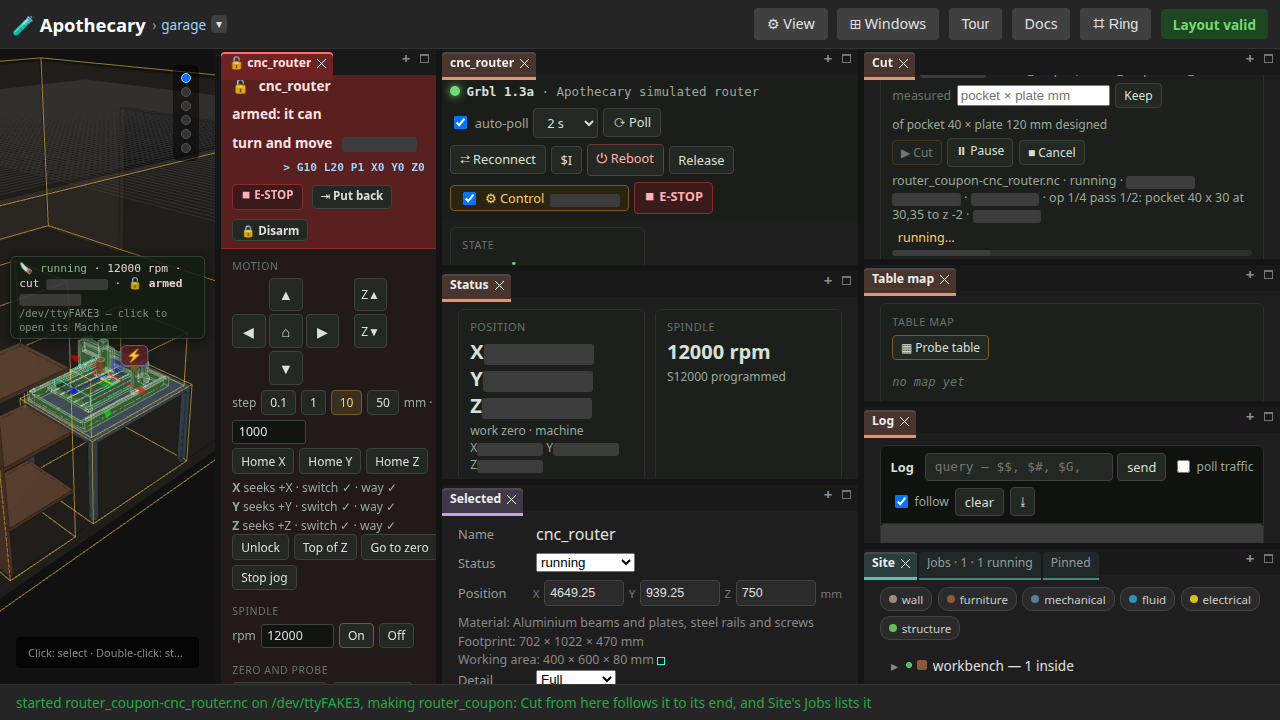
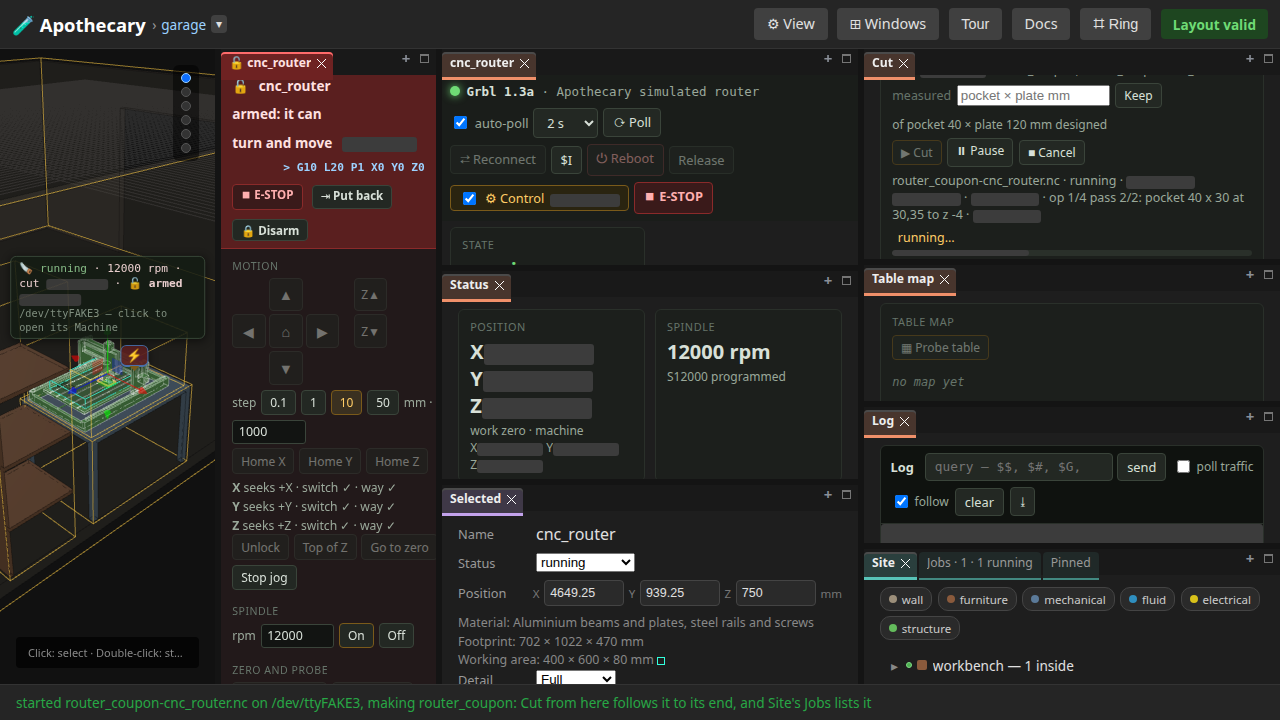
Pause and Cancel are live the moment a cut from the Machine starts, and page 24 shows its greyed buttons
The cut test's step 3 asserted ▶ Cut enabled before control was armed:

    E   AssertionError: Locator expected to be enabled
    E   Actual value: disabled
    E     ... data-can-why="/dev/ttyFAKE3: a job heats, turns and moves the
          machine -- arm control first"

The server would refuse it then, and greying it is what ff91bd9f made the
Machine do, so the step now holds that ▶ Cut is greyed with those words, and
its sentence says so.

Its pictures then showed a fault the test let pass: in the step "Pause and
Cancel while it runs" both were greyed. The server's answer is read from the
last poll, made before ▶, and said "no print is running"; the click on Pause
in the next step waited until a poll caught up. A job from here is the page's
own news and fresher than that poll, so while one runs the Machine no longer
greys its Pause or Cancel for nothing running. The step now holds both
enabled within a second of the start, before any poll, and waits for the
state card to say running before its picture.

Pictures 6 and 7 are committed: the controls a running cut refuses (the pad,
the homes, Unlock, Reconnect, Reboot, Release, Probe table) are greyed in
them, on purpose. Pictures 1, 2, 5 and 8 moved by less than the drift
tolerance or by where the world drew the table at the moment, and are left
as they were.

    13 passed, 1 warning in 106.37s (0:01:46)

Tools: Claude Code

diff --git a/apothecary/static/widgets/machine.js b/apothecary/static/widgets/machine.js
@@ -1151,6 +1151,14 @@ export function mountMachine(root, { base = "", port = "", host = "world", board
         } else if (chosen && canNow.asking) {
             out["print.start"] = { ok: false, kind: "file", why: "the server is being asked whether this file can be sent" };
         }
+        if (running) {
+            // A job from here is this page's own news, fresher than the poll the server's
+            // answer was read from: a Pause or a Cancel is not greyed as if nothing ran
+            // between ▶ and the next poll.
+            for (const verb of ["print.pause", "print.cancel"]) {
+                if (out[verb] && !out[verb].ok && out[verb].kind === "idle") out[verb] = { ok: true, why: null, kind: null };
+            }
+        }
         if (running && job.stage !== words().running && job.stage !== "finishing") {
             out["print.pause"] = { ok: false, kind: "idle", why: `the print is ${job.stage}, not running` };
         }

diff --git a/tests/e2e/test_router_ui.py b/tests/e2e/test_router_ui.py
@@ -219,7 +219,12 @@ def test_a_cut_from_the_card_as_a_person_goes_round_it(
     )
     for now in ("#print-pick", "#print-delete", "#print-preview-row", "#print-start"):
         expect(card.locator(now)).to_be_visible()
-    expect(card.locator("#print-start")).to_be_enabled()
+    # Control is not armed yet (step 5 arms it): the server would refuse the cut, so ▶ Cut
+    # is greyed with its words.
+    expect(card.locator("#print-start")).to_be_disabled()
+    expect(card.locator("#print-start")).to_have_attribute(
+        "title", re.compile(r"^Disabled: .*arm control first")
+    )
     # The Machine view pressed again lands on the file: its path drawn, all of it, and
     # the world framed on it.
     windows.machine_ready(page, "router", by_hand=True)
@@ -228,7 +233,7 @@ def test_a_cut_from_the_card_as_a_person_goes_round_it(
         "Toolpath writes the coupon's cut: kept, chosen, said, and drawn on the table",
         "Toolpath writes the cut from what the coupon declares, in GRBL's dialect, keeps "
         "it and chooses it: the file's row, its ✕, the preview and ▶ Cut are there now, "
-        "and the card says each operation with its passes and what it bored to the tool. "
+        "▶ Cut greyed until control is armed, and the card says each operation with its passes and what it bored to the tool. "
         "The Machine view, pressed again, lands on the file: all of its path drawn on the "
         "table from the router's work zero, and the world framed on it.",
         blank=CHANGING,
@@ -283,10 +288,12 @@ def test_a_cut_from_the_card_as_a_person_goes_round_it(
     card.locator("#print-start").click()
     progress = card.locator("#print-progress")
     expect(progress).to_contain_text(re.compile(r"op \d/4 pass \d/\d: "), timeout=10000)
-    expect(card.locator("#print-pause")).to_be_visible()
-    expect(card.locator("#print-cancel")).to_be_visible()
+    # Pause and Cancel at once, before any poll has said the cut runs: the page knows it.
+    expect(card.locator("#print-pause")).to_be_enabled(timeout=1000)
+    expect(card.locator("#print-cancel")).to_be_enabled(timeout=1000)
     expect(card.locator("#print-resume")).to_be_hidden()
     expect(card.locator("#print-start")).to_be_disabled()
+    expect(machine.locator("#c-state")).to_have_text("running", timeout=WITHIN_A_POLL)
     story.shows(
         "▶ Cut streams it: Pause and Cancel while it runs, the operation named",
         "▶ Cut asks first, then streams the file one line per ok. The progress line names "

diff --git a/walkthrough/24-a-cut-from-the-card.md b/walkthrough/24-a-cut-from-the-card.md
@@ -31,7 +31,7 @@ The coupon on the router's table chosen under makes. Toolpath is there, since th
 
 ## 3. Toolpath writes the coupon's cut: kept, chosen, said, and drawn on the table
 
-Toolpath writes the cut from what the coupon declares, in GRBL's dialect, keeps it and chooses it: the file's row, its ✕, the preview and ▶ Cut are there now, and the card says each operation with its passes and what it bored to the tool. The Machine view, pressed again, lands on the file: all of its path drawn on the table from the router's work zero, and the world framed on it.
+Toolpath writes the cut from what the coupon declares, in GRBL's dialect, keeps it and chooses it: the file's row, its ✕, the preview and ▶ Cut are there now, ▶ Cut greyed until control is armed, and the card says each operation with its passes and what it bored to the tool. The Machine view, pressed again, lands on the file: all of its path drawn on the table from the router's work zero, and the world framed on it.
 
 ![Toolpath writes the coupon's cut: kept, chosen, said, and drawn on the table](screenshots/24-03-toolpath-writes-the-coupon-s-cut-kept-chosen-said-.png)
 
